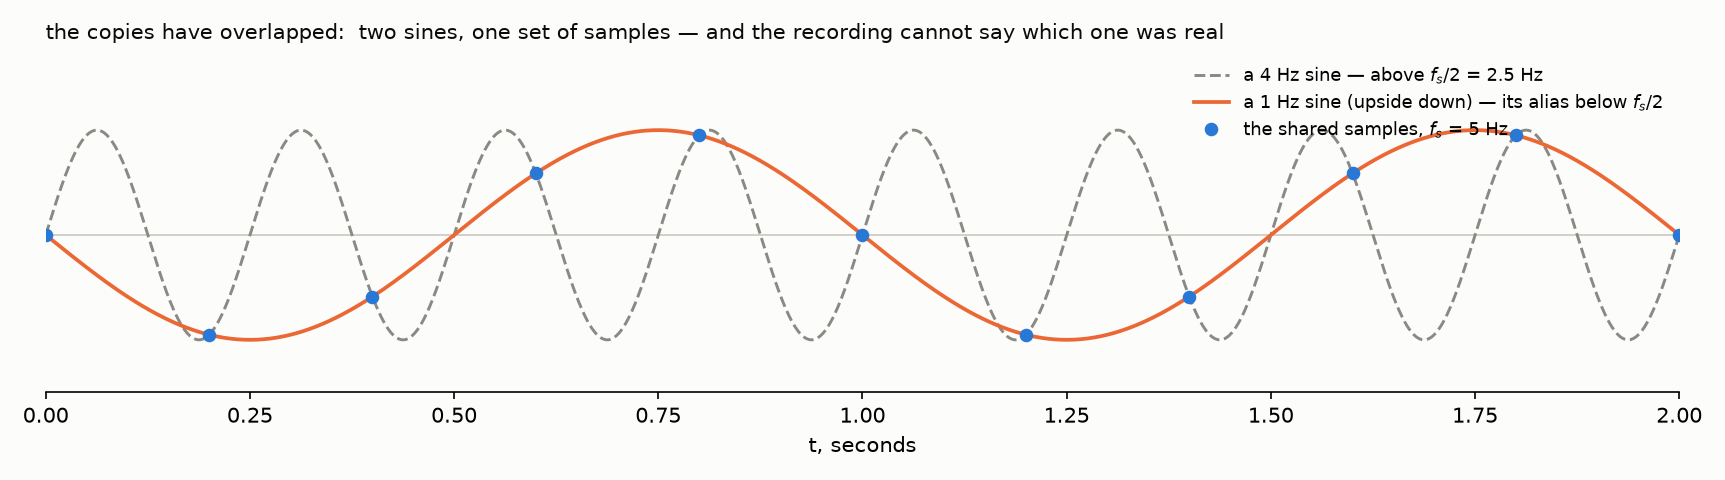
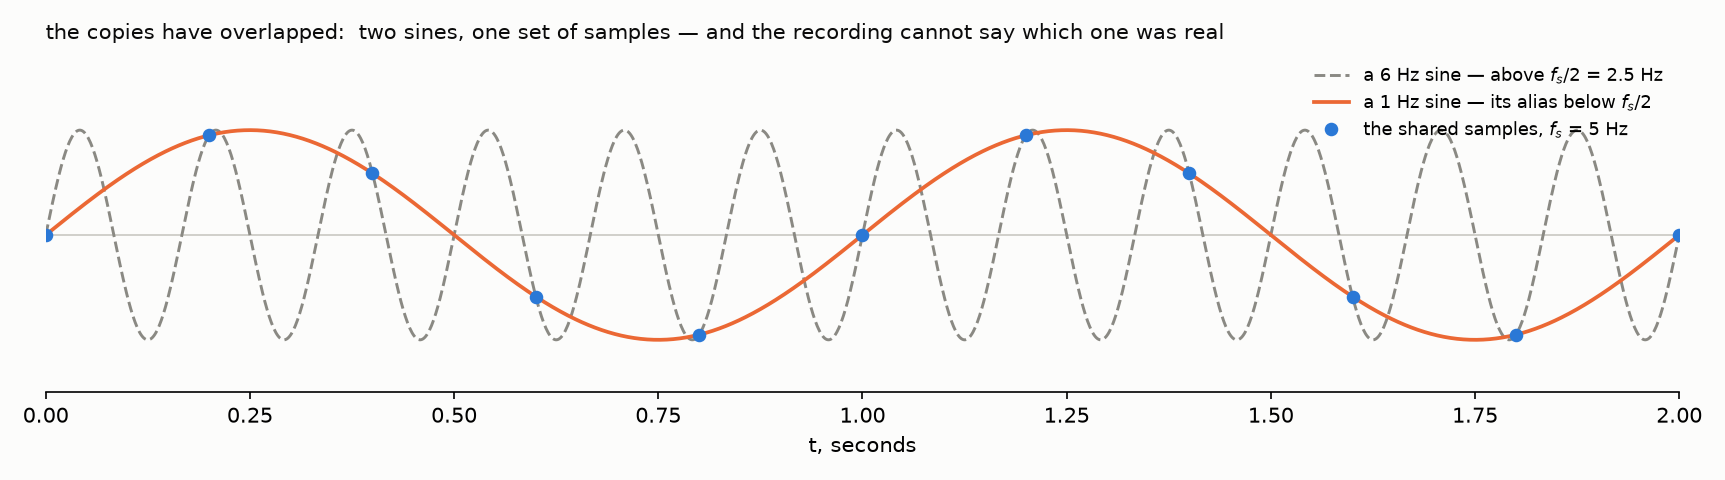
Three Names: aliasing demo without negative frequencies
The concrete example is now the 6 Hz member of the same 1/6/11 family
as the family figure; the alias is a plain +1 Hz sine, aliased_pair
regenerated; the wagon-wheel backwards rotation is explained by spokes
landing behind the previous frame's positions instead of via a negative
alias frequency.

diff --git a/content/posts/the-theorem-with-three-names/index.md b/content/posts/the-theorem-with-three-names/index.md
@@ -282,14 +282,15 @@ picture, back on stage with today's villain at full strength:
 ![The copies picture again, with row 3 — overlapping copies, aliasing — at full strength](copies_row3.png)
 
 The true frequency is pushed *outside* the window, and the
-family member left inside is an impostor. Concretely: sample a $4$ Hz
-sine at $f_s = 5$ Hz — the tone sits well above
-$\frac{f_s}{2} = 2.5$ Hz — and the samples are exactly those of a
-$1$ Hz sine turned upside down ($4 - 5 = -1$ Hz):
+family member left inside is an impostor. Concretely: sample the $6$ Hz
+member of the family above at $f_s = 5$ Hz. The tone sits above
+$\frac{f_s}{2} = 2.5$ Hz, its in-window family member is
+$6 - 5 = 1$ Hz — and, as the family picture already showed, the samples
+of the $6$ Hz sine are exactly the samples of the $1$ Hz sine:
 
 ![Two sines, one set of samples: a 4 Hz tone and its 1 Hz alias at a 5 Hz sampling rate](aliased_pair.png)
 
-The recording cannot say which candidate was real, so a $4$ Hz tone
+The recording cannot say which candidate was real, so a $6$ Hz tone
 goes in and a $1$ Hz impostor comes out. The impostor has a
 name — an [**alias**](https://en.wikipedia.org/wiki/Aliasing) — and the
 phenomenon is not exotic: you have watched it in every western. Film
@@ -298,10 +299,10 @@ stagecoach wheel. A wheel with $k$ spokes looks the same after
 $\frac{1}{k}$ of a turn, so the camera effectively watches a periodic
 pattern whose frequency is $k$ times the rotation rate — far above
 $12$ Hz for any wheel at speed. The pattern aliases. Spokes advancing
-slightly *less* than one spoke-step per frame read as a slow crawl
-*backwards* — a negative alias frequency, the upside-down sine of our
-picture. Exactly one step per frame, and the wheel stands still under a
-galloping coach. That is the
+slightly *less* than one full spoke-step per frame land, in every new
+frame, a little *behind* the previous frame's spoke positions — and the
+eye reads a slow rotation backwards. Exactly one step per frame, and
+the wheel stands still under a galloping coach. That is the
 [wagon-wheel effect](https://en.wikipedia.org/wiki/Wagon-wheel_effect),
 and its kin are everywhere: a fan under a
 [strobe light](https://en.wikipedia.org/wiki/Stroboscopic_effect), the
